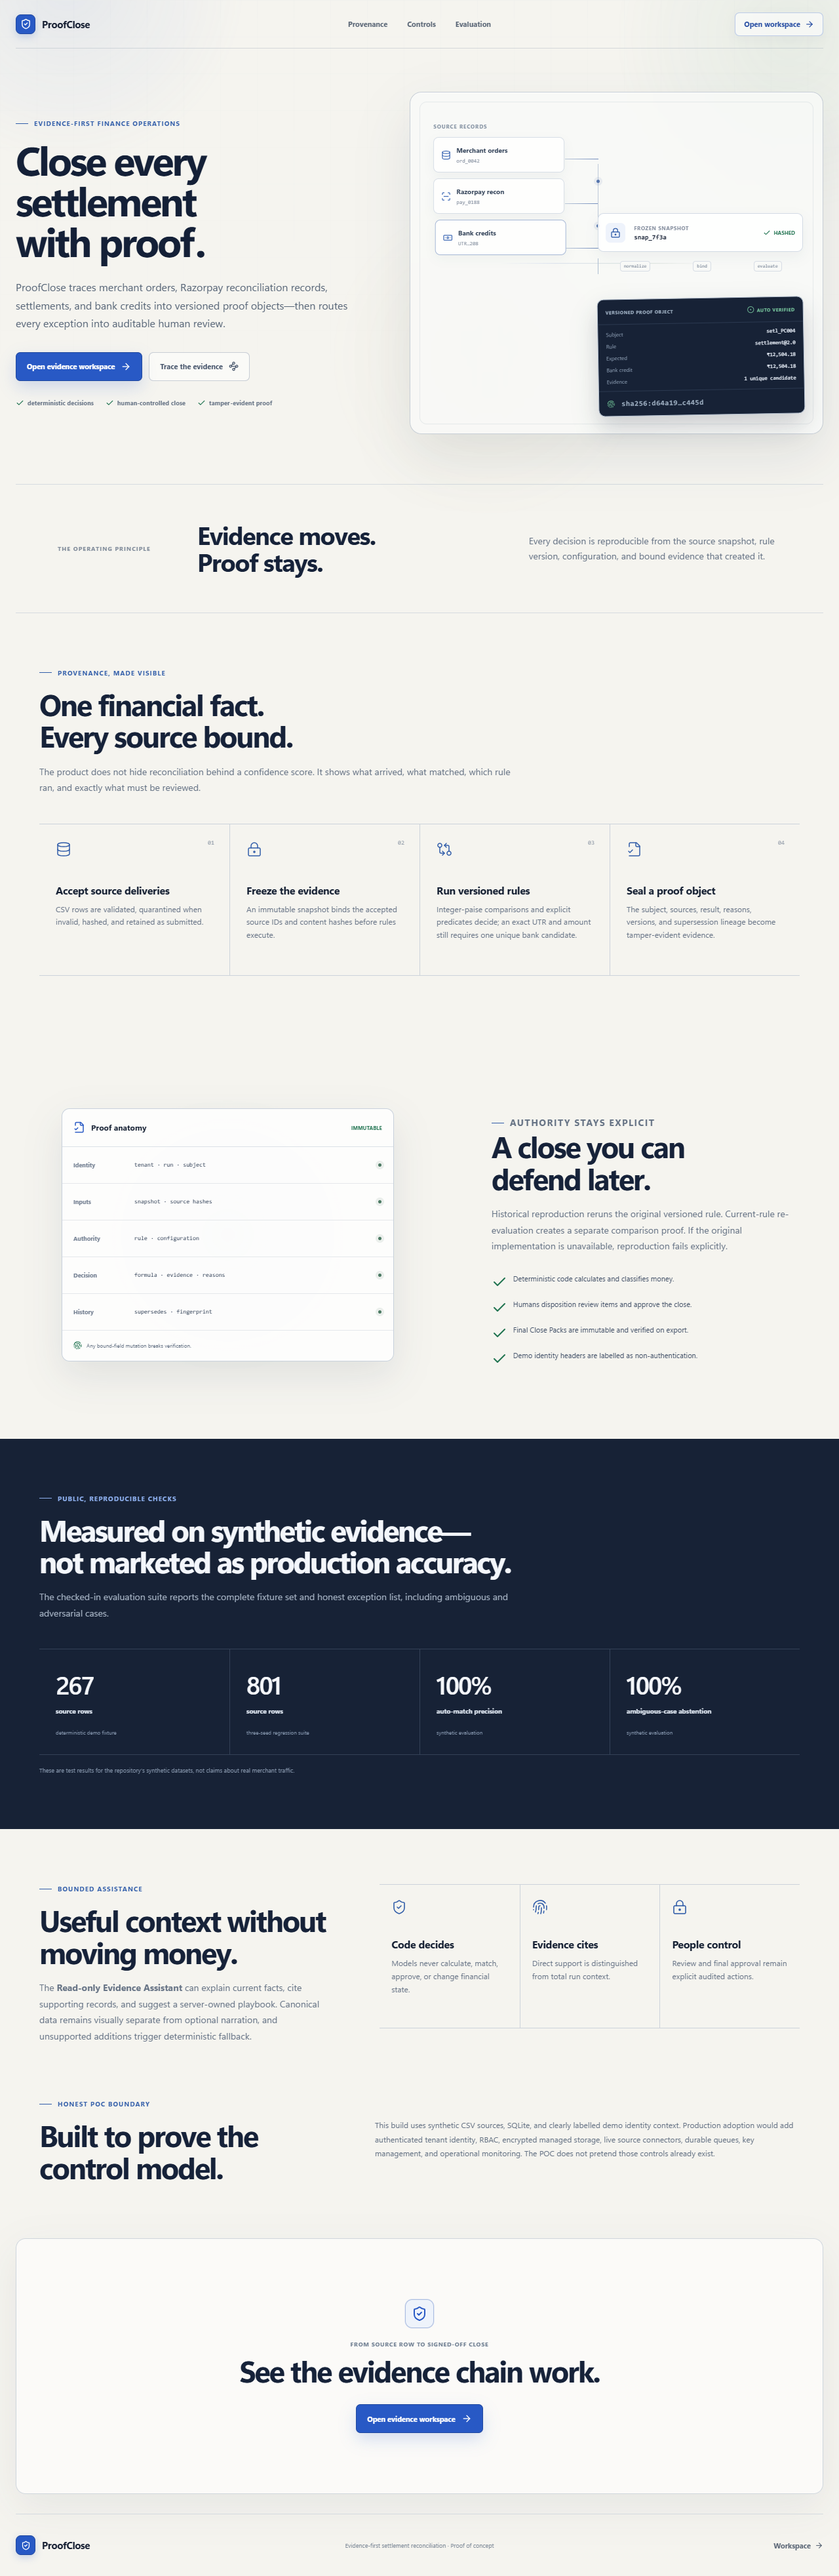
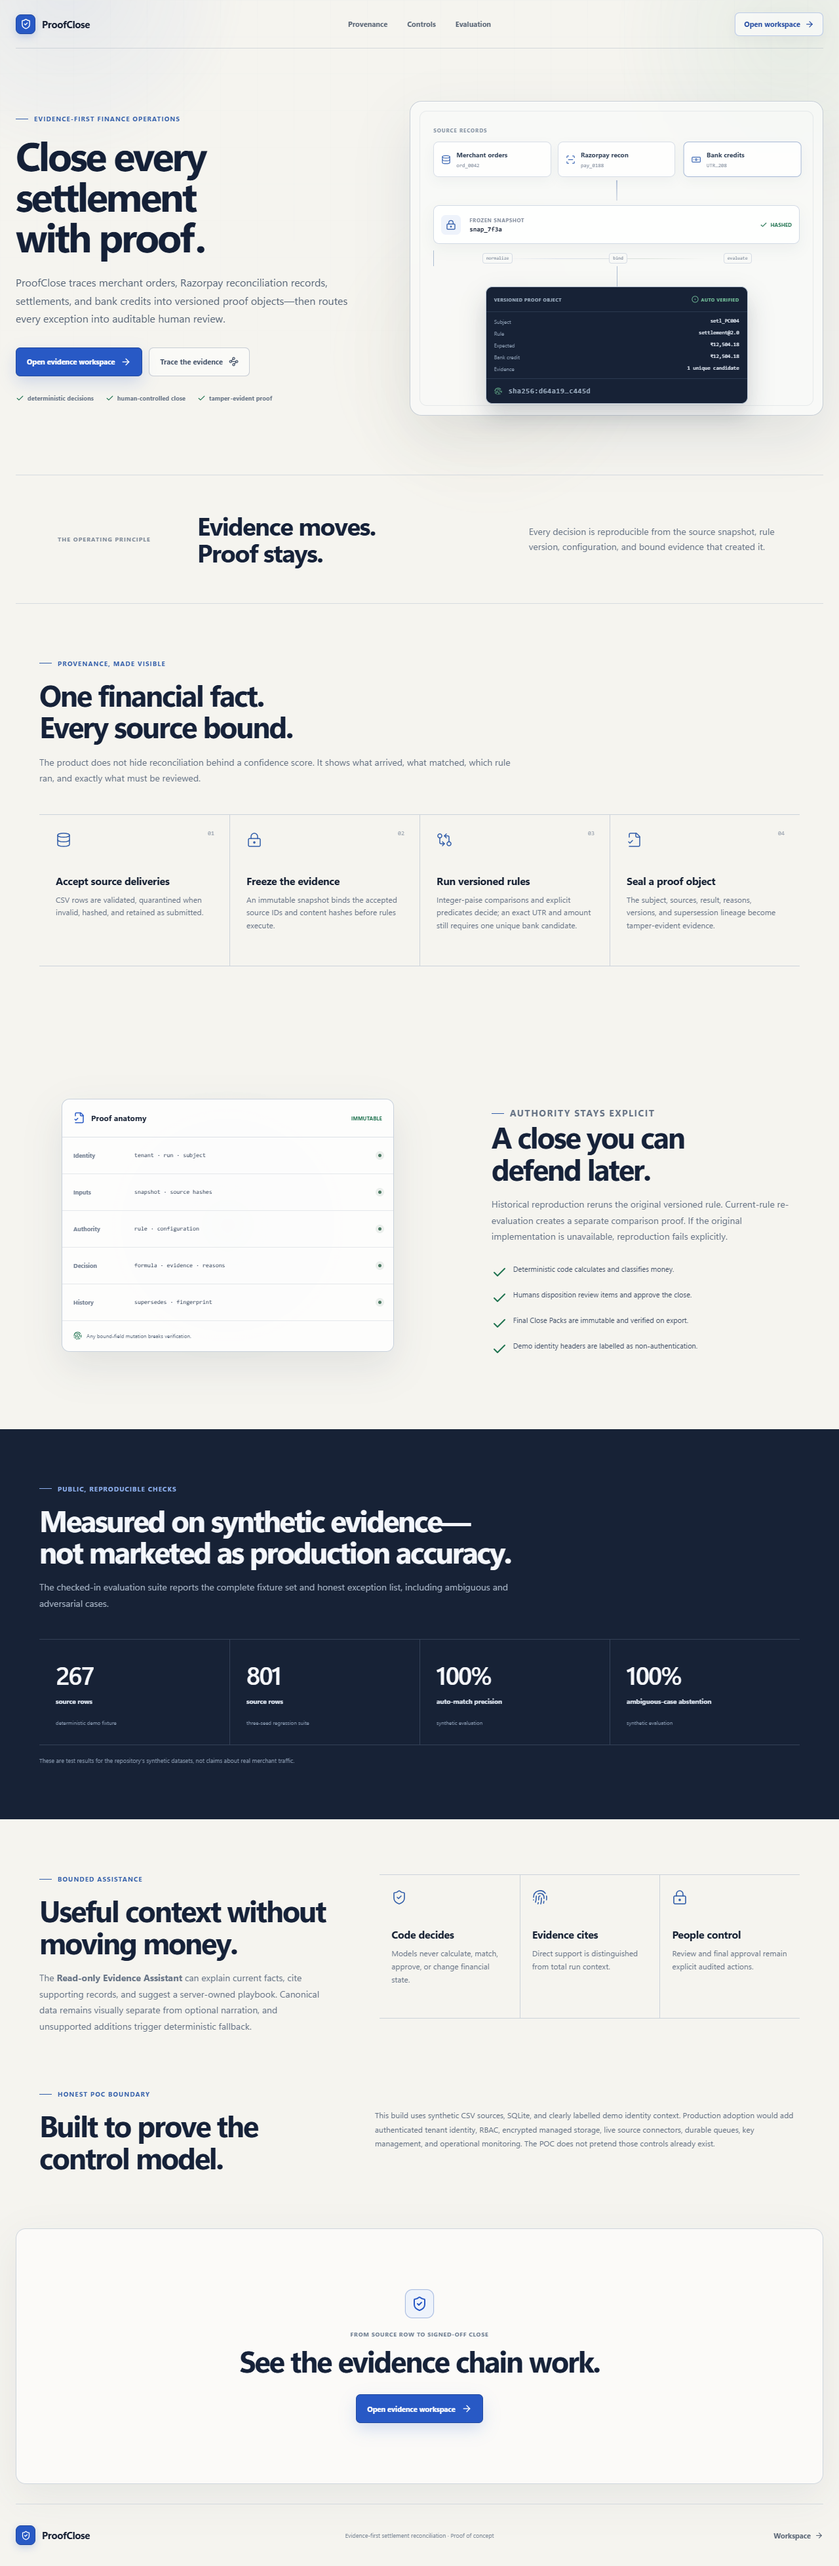
fix: clarify landing provenance flow

diff --git a/frontend/src/styles.css b/frontend/src/styles.css
@@ -399,22 +399,24 @@ code { font-family: "SFMono-Regular", Consolas, "Liberation Mono", monospace; fo
 .landing-assurance { margin-top: 27px; display: flex; flex-wrap: wrap; gap: 9px 18px; color: #667385; font-size: 9px; font-weight: 650; letter-spacing: 0.02em; }
 .landing-assurance span { display: inline-flex; align-items: center; gap: 5px; }
 .landing-assurance svg { color: #217451; }
-.provenance-field { position: relative; min-height: 522px; padding: 27px; border: 1px solid rgba(180, 190, 201, 0.72); border-radius: 18px; background: rgba(250, 251, 249, 0.73); box-shadow: 0 34px 80px rgba(33, 47, 67, 0.1), inset 0 1px 0 rgba(255, 255, 255, 0.82); backdrop-filter: blur(18px); }
+.provenance-field { position: relative; min-height: 480px; padding: 27px; border: 1px solid rgba(180, 190, 201, 0.72); border-radius: 18px; background: rgba(250, 251, 249, 0.73); box-shadow: 0 34px 80px rgba(33, 47, 67, 0.1), inset 0 1px 0 rgba(255, 255, 255, 0.82); backdrop-filter: blur(18px); }
 .provenance-field::before { content: ""; position: absolute; inset: 14px; border: 1px solid rgba(178, 189, 202, 0.26); border-radius: 11px; pointer-events: none; }
 .provenance-field::after { content: ""; position: absolute; top: 50%; left: 22%; width: 58%; height: 1px; opacity: 0.56; background: linear-gradient(90deg, transparent, #6d8cc7 28%, #5d856f 70%, transparent); animation: evidence-scan 8s ease-in-out infinite; }
-.provenance-source-stack { position: absolute; z-index: 2; top: 46px; left: 35px; width: 200px; display: grid; gap: 9px; }
-.provenance-caption { margin-bottom: 2px; color: #8290a1; font-size: 8px; font-weight: 760; letter-spacing: 0.12em; text-transform: uppercase; }
+.provenance-source-stack { position: absolute; z-index: 2; top: 38px; right: 35px; left: 35px; display: grid; grid-template-columns: repeat(3, minmax(0, 1fr)); gap: 10px; }
+.provenance-caption { grid-column: 1 / -1; margin-bottom: 2px; color: #8290a1; font-size: 8px; font-weight: 760; letter-spacing: 0.12em; text-transform: uppercase; }
 .source-chip { min-height: 54px; padding: 9px 11px; border: 1px solid #d9dfe7; border-radius: 8px; display: grid; grid-template-columns: 23px 1fr; align-items: center; color: #314157; background: rgba(255, 255, 255, 0.88); box-shadow: 0 6px 16px rgba(28, 40, 58, 0.045); animation: source-breathe 7s ease-in-out infinite; }
 .source-chip:nth-of-type(3) { animation-delay: -2.3s; }
 .source-chip:nth-of-type(4) { animation-delay: -4.6s; }
 .source-chip svg { grid-row: 1 / span 2; color: #416bb5; }
 .source-chip span { font-size: 10px; font-weight: 700; }
 .source-chip code { color: #8791a0; font-size: 8px; }
-.provenance-rail { position: absolute; z-index: 1; top: 101px; left: 236px; width: 51px; height: 137px; display: flex; flex-direction: column; justify-content: space-between; align-items: flex-end; }
-.provenance-rail::after { content: ""; position: absolute; top: 8px; right: 0; bottom: 8px; width: 1px; background: #bdc9d9; }
+.provenance-rail { position: absolute; z-index: 1; top: 120px; left: 50%; width: 1px; height: 31px; transform: translateX(-50%); }
+.provenance-rail::after { content: ""; position: absolute; inset: 0; width: 1px; background: linear-gradient(#6f8abb, #bdc9d9); }
 .provenance-rail span { width: 100%; height: 1px; display: block; background: linear-gradient(90deg, #bdc9d9, #6f8abb); }
 .provenance-rail i { position: relative; z-index: 2; width: 5px; height: 5px; margin-right: -2px; border-radius: 50%; background: #5575ad; box-shadow: 0 0 0 4px rgba(85, 117, 173, 0.1); }
-.provenance-core { position: absolute; z-index: 2; top: 184px; left: 286px; right: 30px; display: grid; gap: 10px; }
+.provenance-rail span, .provenance-rail i { display: none; }
+.provenance-core { position: absolute; z-index: 2; top: 158px; right: 35px; left: 35px; display: grid; gap: 10px; }
+.provenance-core::after { content: ""; position: absolute; top: 100%; left: 50%; height: 31px; border-left: 1px solid #aebed2; }
 .provenance-node { min-height: 59px; padding: 10px 11px; border: 1px solid #d3dbe5; border-radius: 9px; display: grid; grid-template-columns: 34px 1fr auto; align-items: center; gap: 9px; background: rgba(255, 255, 255, 0.91); box-shadow: 0 8px 20px rgba(27, 42, 62, 0.05); }
 .provenance-node .node-icon { width: 30px; height: 30px; border-radius: 7px; display: grid; place-items: center; color: #315da9; background: #eef3fb; }
 .provenance-node small, .provenance-node strong { display: block; }
@@ -425,8 +427,8 @@ code { font-family: "SFMono-Regular", Consolas, "Liberation Mono", monospace; fo
 .rule-connector span { padding: 3px 5px; border: 1px solid #d7dde5; border-radius: 4px; background: #f8f9f7; }
 .proof-node { border-color: #b9c9bb; background: rgba(248, 252, 248, 0.94); }
 .proof-node .node-icon { color: #217451; background: #eaf5ee; }
-.proof-object-card { position: absolute; z-index: 3; right: 28px; bottom: 28px; width: 315px; overflow: hidden; border: 1px solid #b9c5d4; border-radius: 10px; color: #dce6f3; background: #172236; box-shadow: 0 18px 36px rgba(19, 30, 48, 0.2); transform: rotate(-1deg); transition: transform 260ms ease, box-shadow 260ms ease; }
-.provenance-field:hover .proof-object-card { transform: rotate(0) translateY(-3px); box-shadow: 0 23px 44px rgba(19, 30, 48, 0.24); }
+.proof-object-card { position: absolute; z-index: 3; top: 282px; right: 0; left: 0; width: calc(100% - 70px); max-width: 400px; margin-inline: auto; overflow: hidden; border: 1px solid #b9c5d4; border-radius: 10px; color: #dce6f3; background: #172236; box-shadow: 0 18px 36px rgba(19, 30, 48, 0.2); transition: transform 260ms ease, box-shadow 260ms ease; }
+.provenance-field:hover .proof-object-card { transform: translateY(-3px); box-shadow: 0 23px 44px rgba(19, 30, 48, 0.24); }
 .proof-object-card header, .proof-object-card footer { min-height: 38px; padding: 0 12px; display: flex; align-items: center; justify-content: space-between; gap: 10px; color: #9bacbf; font-size: 7px; font-weight: 730; letter-spacing: 0.08em; }
 .proof-object-card header { text-transform: uppercase; }
 .proof-object-card header { border-bottom: 1px solid #2b3950; }
@@ -523,9 +525,6 @@ code { font-family: "SFMono-Regular", Consolas, "Liberation Mono", monospace; fo
 
 @media (max-width: 1080px) {
   .landing-hero { grid-template-columns: minmax(0, 0.8fr) minmax(500px, 1.2fr); gap: 36px; }
-  .provenance-source-stack { width: 170px; }
-  .provenance-rail { left: 206px; }
-  .provenance-core { left: 256px; }
   .trust-section { gap: 42px; }
   .app-header { gap: 14px; padding-inline: 16px; }
   .workspace-layout { display: block; }
@@ -588,13 +587,13 @@ code { font-family: "SFMono-Regular", Consolas, "Liberation Mono", monospace; fo
   .landing-lede { font-size: 14px; }
   .landing-hero-actions { align-items: stretch; flex-direction: column; }
   .landing-assurance { display: grid; }
-  .provenance-field { min-height: 610px; padding: 20px; }
-  .provenance-source-stack { top: 32px; right: 27px; left: 27px; width: auto; }
-  .provenance-rail { top: 213px; left: 50%; width: 1px; height: 38px; }
-  .provenance-rail::after { display: none; }
-  .provenance-rail span, .provenance-rail i { display: none; }
-  .provenance-core { top: 262px; right: 27px; left: 27px; }
-  .proof-object-card { right: 27px; bottom: 27px; left: 27px; width: auto; transform: none; }
+  .provenance-field { min-height: 620px; padding: 20px; }
+  .provenance-source-stack { top: 32px; right: 27px; left: 27px; grid-template-columns: 1fr; gap: 9px; }
+  .provenance-rail { top: 236px; left: 50%; width: 1px; height: 35px; }
+  .provenance-core { top: 280px; right: 27px; left: 27px; }
+  .provenance-core::after { height: 38px; }
+  .proof-object-card { top: auto; right: 27px; bottom: 27px; left: 27px; width: auto; max-width: none; margin-inline: 0; transform: none; }
+  .provenance-field:hover .proof-object-card { transform: translateY(-3px); }
   .landing-statement { width: calc(100% - 28px); padding: 50px 8px; grid-template-columns: 1fr; gap: 20px; }
   .landing-statement > span { grid-column: auto; }
   .landing-section { width: calc(100% - 28px); padding: 78px 0; }

diff --git a/frontend/e2e/review.spec.ts b/frontend/e2e/review.spec.ts
@@ -115,6 +115,28 @@ test('fixed evidence-first browser review', async ({ page }) => {
   await expect(page.getByLabel('Source records flow through a frozen snapshot and versioned rules into an immutable proof')).toBeVisible()
   await expect(page.getByText('Measured on synthetic evidence—not marketed as production accuracy.')).toBeVisible()
   await expectContained(page)
+  const provenanceLayout = await page.locator('.provenance-field').evaluate((field) => {
+    const fieldRect = field.getBoundingClientRect()
+    const sources = [...field.querySelectorAll('.source-chip')].map((source) => source.getBoundingClientRect())
+    const snapshot = field.querySelector('.snapshot-node')!.getBoundingClientRect()
+    const proof = field.querySelector('.proof-object-card')!.getBoundingClientRect()
+    return {
+      sourceTopSpread: Math.max(...sources.map((source) => source.top)) - Math.min(...sources.map((source) => source.top)),
+      sourceBottom: Math.max(...sources.map((source) => source.bottom)),
+      snapshotTop: snapshot.top,
+      snapshotBottom: snapshot.bottom,
+      proofTop: proof.top,
+      fieldCenter: fieldRect.left + fieldRect.width / 2,
+      snapshotCenter: snapshot.left + snapshot.width / 2,
+      proofCenter: proof.left + proof.width / 2,
+    }
+  })
+  expect(provenanceLayout.sourceTopSpread).toBeLessThanOrEqual(2)
+  expect(provenanceLayout.sourceBottom).toBeLessThan(provenanceLayout.snapshotTop)
+  expect(provenanceLayout.snapshotBottom).toBeLessThan(provenanceLayout.proofTop)
+  expect(provenanceLayout.proofTop - provenanceLayout.snapshotBottom).toBeLessThanOrEqual(80)
+  expect(Math.abs(provenanceLayout.snapshotCenter - provenanceLayout.fieldCenter)).toBeLessThanOrEqual(2)
+  expect(Math.abs(provenanceLayout.proofCenter - provenanceLayout.fieldCenter)).toBeLessThanOrEqual(2)
   await screenshot(page, 'landing')
 
   await page.getByRole('link', { name: 'Open evidence workspace' }).first().click()
@@ -307,6 +329,16 @@ test('failure toast clears the sticky header at mobile width', async ({ page }) 
 test('reduced motion keeps proof content immediate and stationary', async ({ page }) => {
   await page.emulateMedia({ reducedMotion: 'reduce' })
   await mockEvidenceMode(page)
+  await page.goto('/')
+  const [fieldBox, proofCardBox] = await Promise.all([
+    page.locator('.provenance-field').boundingBox(),
+    page.locator('.proof-object-card').boundingBox(),
+  ])
+  expect(fieldBox).not.toBeNull()
+  expect(proofCardBox).not.toBeNull()
+  expect(proofCardBox!.x).toBeGreaterThanOrEqual(fieldBox!.x)
+  expect(proofCardBox!.x + proofCardBox!.width).toBeLessThanOrEqual(fieldBox!.x + fieldBox!.width)
+
   await page.goto('/workspace')
   await page.getByRole('button', { name: 'Prove it' }).first().click()
   const motion = await page.locator('.proof-drawer').evaluate((element) => {

diff --git a/frontend/vite.config.ts b/frontend/vite.config.ts
@@ -1,12 +1,14 @@
 import { defineConfig } from 'vitest/config'
 import react from '@vitejs/plugin-react'
 
+const apiTarget = process.env.PROOFCLOSE_API_TARGET ?? 'http://127.0.0.1:8000'
+
 export default defineConfig({
   plugins: [react()],
   server: {
     host: '127.0.0.1',
     port: 5173,
-    proxy: { '/api': 'http://127.0.0.1:8000' },
+    proxy: { '/api': apiTarget },
   },
   test: {
     include: ['src/**/*.test.{ts,tsx}'],
